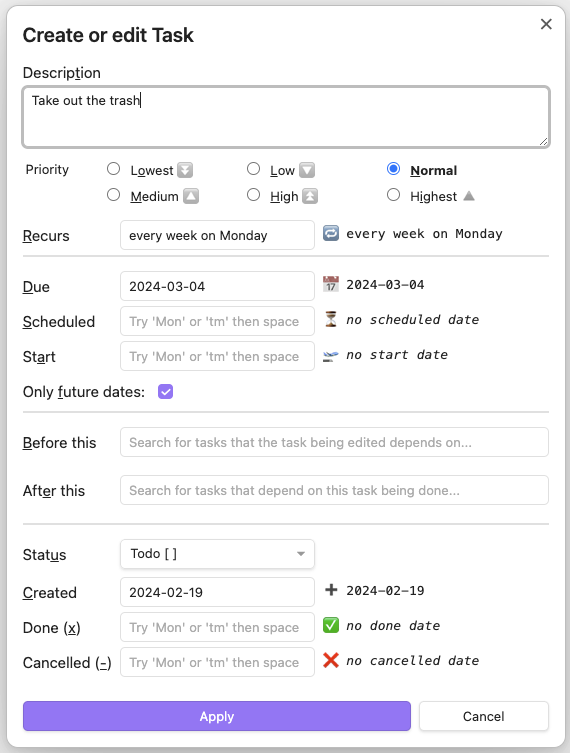
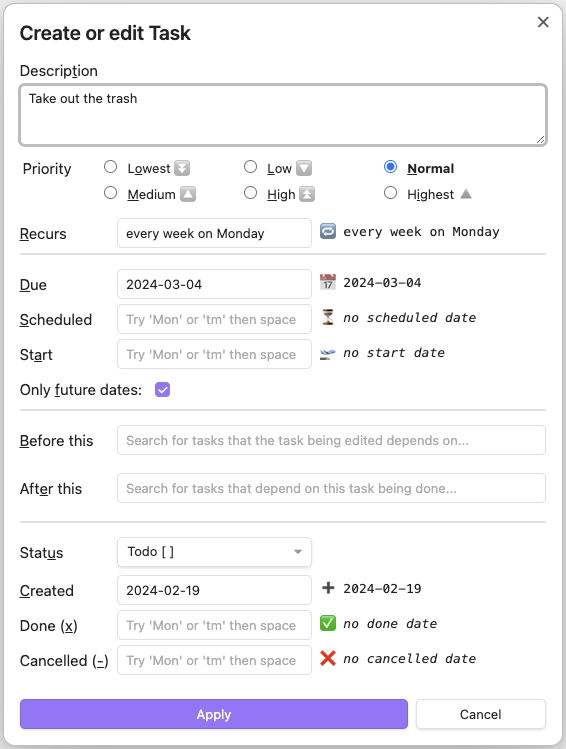
fix: set correct font size to Priority label (#2790)
* fix: ! set correct font size to Priority label

* docs: Update the screenshot of the Edit Task Modal

---------

diff --git a/src/ui/EditTask.scss b/src/ui/EditTask.scss
@@ -60,12 +60,16 @@
 }
 
 .tasks-modal-priorities label {
-    font-size: var(--font-ui-small);
     border-radius: var(--input-radius);
     padding: 2px 3px;
     grid-column: 1;
     grid-row-start: 1;
     grid-row-end: 7;
+}
+
+
+.tasks-modal-priorities input + label {
+    font-size: var(--font-ui-small);
 }
 
 .tasks-modal-priorities input:focus + label {
